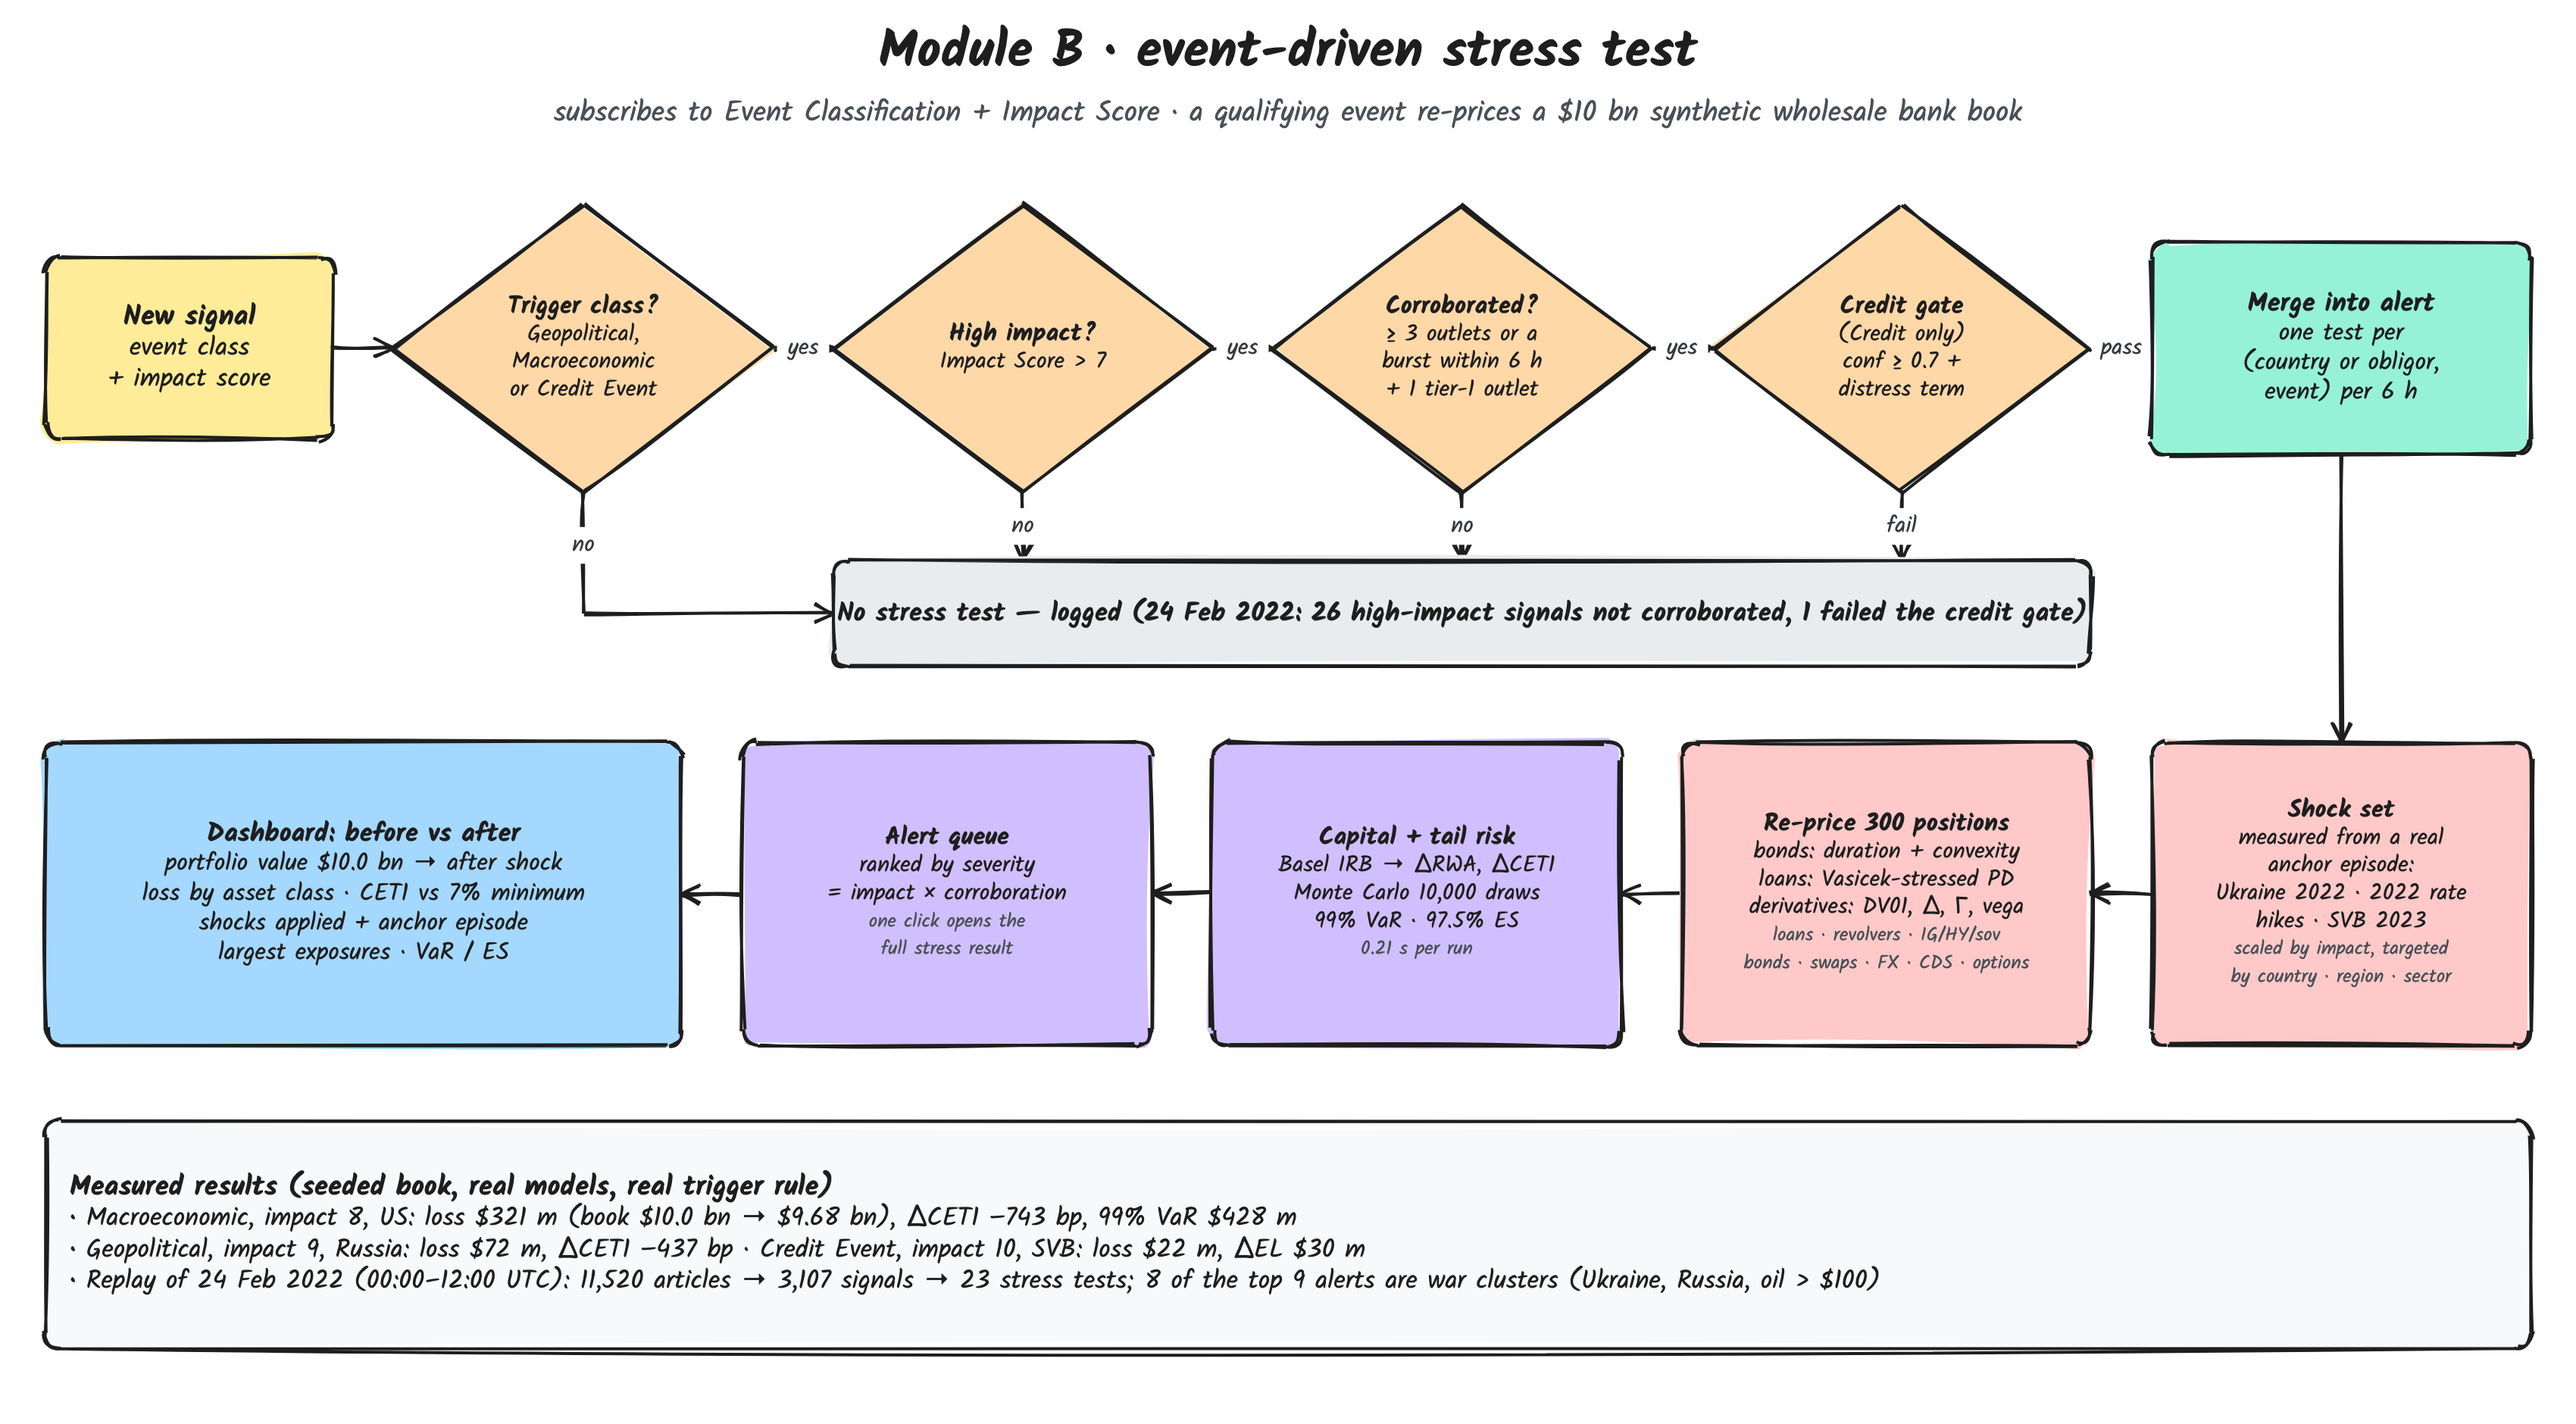
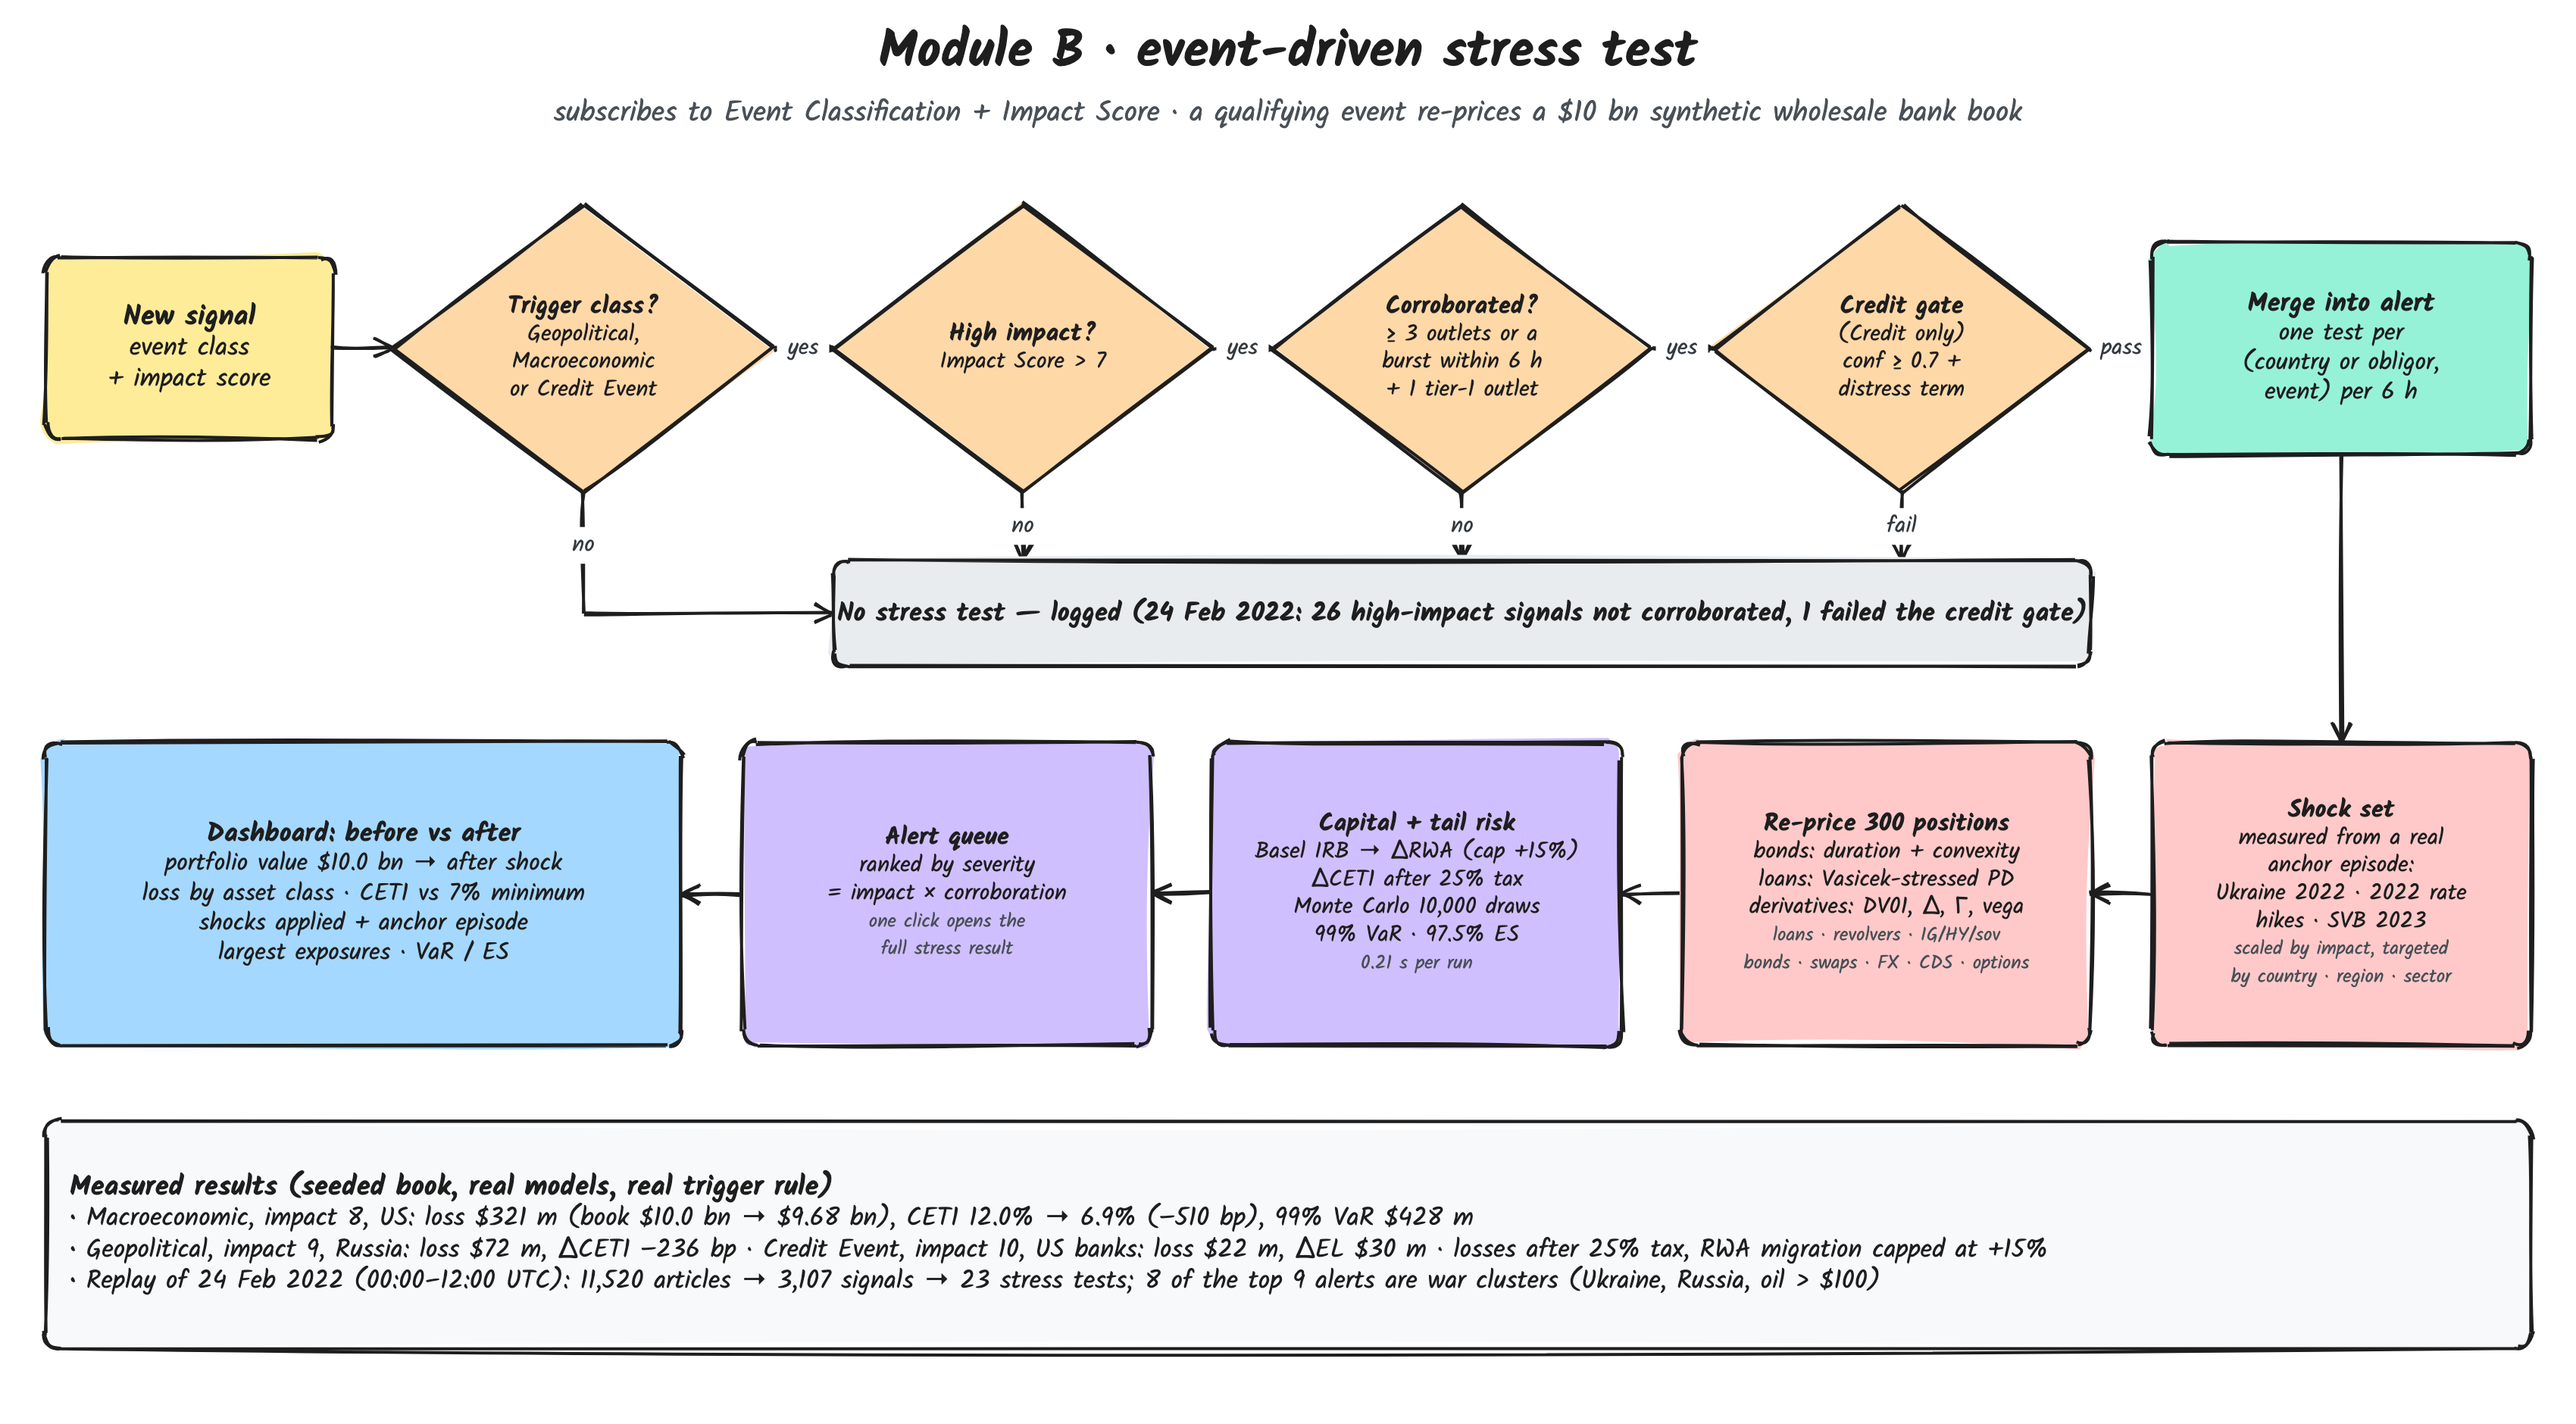
docs: Module B numbers after the capital fix; scale estimate from the v2 benchmark

Changed region(s): [[0.2494, 0.833, 0.7794, 0.8947], [0.4988, 0.5553, 0.6235, 0.6787]]

diff --git a/README.md b/README.md
@@ -257,7 +257,7 @@ tables with confidence intervals: [model card](docs/model_card.md).
 | Module | Result |
 | --- | --- |
 | **B · Stress test**, 24 Feb 2022 replay | 11,520 articles → 3,107 signals → **23 stress tests**, the first at 00:00 UTC. 8 of the top 9 alerts are war clusters (Ukraine, Russia, oil > $100, ruble). Gates blocked 26 uncorroborated signals and merged 146 into open alerts |
-| **B · Scenarios** (seeded $10 bn book) | Macro, US, impact 8: **−$321 m** ($10.0 bn → $9.68 bn), ΔCET1 −743 bp, 99% VaR $428 m · Geopolitical, Russia, impact 9: −$72 m, ΔCET1 −437 bp · Credit, SVB, impact 10: −$22 m, ΔEL $30 m · Monte Carlo 10,000 draws in **0.21 s** |
+| **B · Scenarios** (seeded $10 bn book; losses after 25% tax, rating-migration RWA capped at +15%) | Macro, US, impact 8: **−$321 m** ($10.0 bn → $9.68 bn), CET1 12.0% → 6.9% (ΔCET1 −510 bp), 99% VaR $428 m · Geopolitical, Russia, impact 9: −$72 m, ΔCET1 −236 bp · Credit, US banks, impact 10: −$22 m, ΔEL $30 m, ΔCET1 −181 bp · Monte Carlo 10,000 draws in **0.2–0.3 s**. The RWA cap binds in every scenario (−157 bp of each ΔCET1), so rating migration is too aggressive; see [what failed](#what-we-tried-and-what-failed) |
 | **A · Index rebalancer** (backtest 2024 → Aug 2026, 10 bp per side, run once) | Risk limits held on **1,673 of 1,673** rebalance days. Net IR −1.43 (v2) / −1.31 (v1); beats 33% / 74% of date-shuffled placebos (bar: 95%). **No proven edge after costs**, and the dashboard says so |
 
 ### Efficiency vs a naive approach
@@ -298,7 +298,7 @@ tables with confidence intervals: [model card](docs/model_card.md).
 Native-language quality (0.53 vs 0.75 target), impact correlation, CPU throughput and credit precision are below target.
 Module A has no edge after costs. Next steps:
 1. Human-labelled native-language data.
-2. Static INT8 or GPU workers behind an accuracy gate. Today 10 M docs/day needs about 90–116 CPU workers.
+2. Static INT8 or GPU workers behind an accuracy gate. Today 10 M docs/day (116 docs/s) needs about 7 eight-thread CPU workers at average load and about 66 at a 10× peak of 1,157 docs/s (17.6 docs/s per worker on new text).
 3. Intraday impact labels.
 4. More hard negatives for credit precision.
 5. Real exposure feeds in place of the synthetic book.

diff --git a/docs/deck/speaker_notes.md b/docs/deck/speaker_notes.md
@@ -30,4 +30,4 @@ One section per slide. `make deck` copies each section into the PPTX speaker not
 - **Why not an LLM?** Cost, latency and determinism. Fine-tuned encoders give calibrated probabilities and need no API key. Every score is reproducible and explainable by occlusion.
 - **How do you avoid look-ahead?** News after the close maps to the next open. Every feature uses data dated before the reaction day. The split is by time (train 2019–2023, test 2024+), and the test set was touched once.
 - **What if a source goes down?** Its circuit breaker opens and the replay twin keeps the stream going. Live demo: `POST /v1/sources/rss/kill`.
-- **How would it scale to 10 M docs/day?** About 116 docs/s on average and 1,157 at peak. That is roughly 90–116 CPU workers today, fewer with INT8 or GPU behind an accuracy gate. Ingestion and models scale horizontally.
+- **How would it scale to 10 M docs/day?** About 116 docs/s on average and 1,157 at peak. That is about 7 eight-thread CPU workers on average and about 66 at peak today (17.6 docs/s each), fewer with INT8 or GPU behind an accuracy gate. Ingestion and models scale horizontally.
